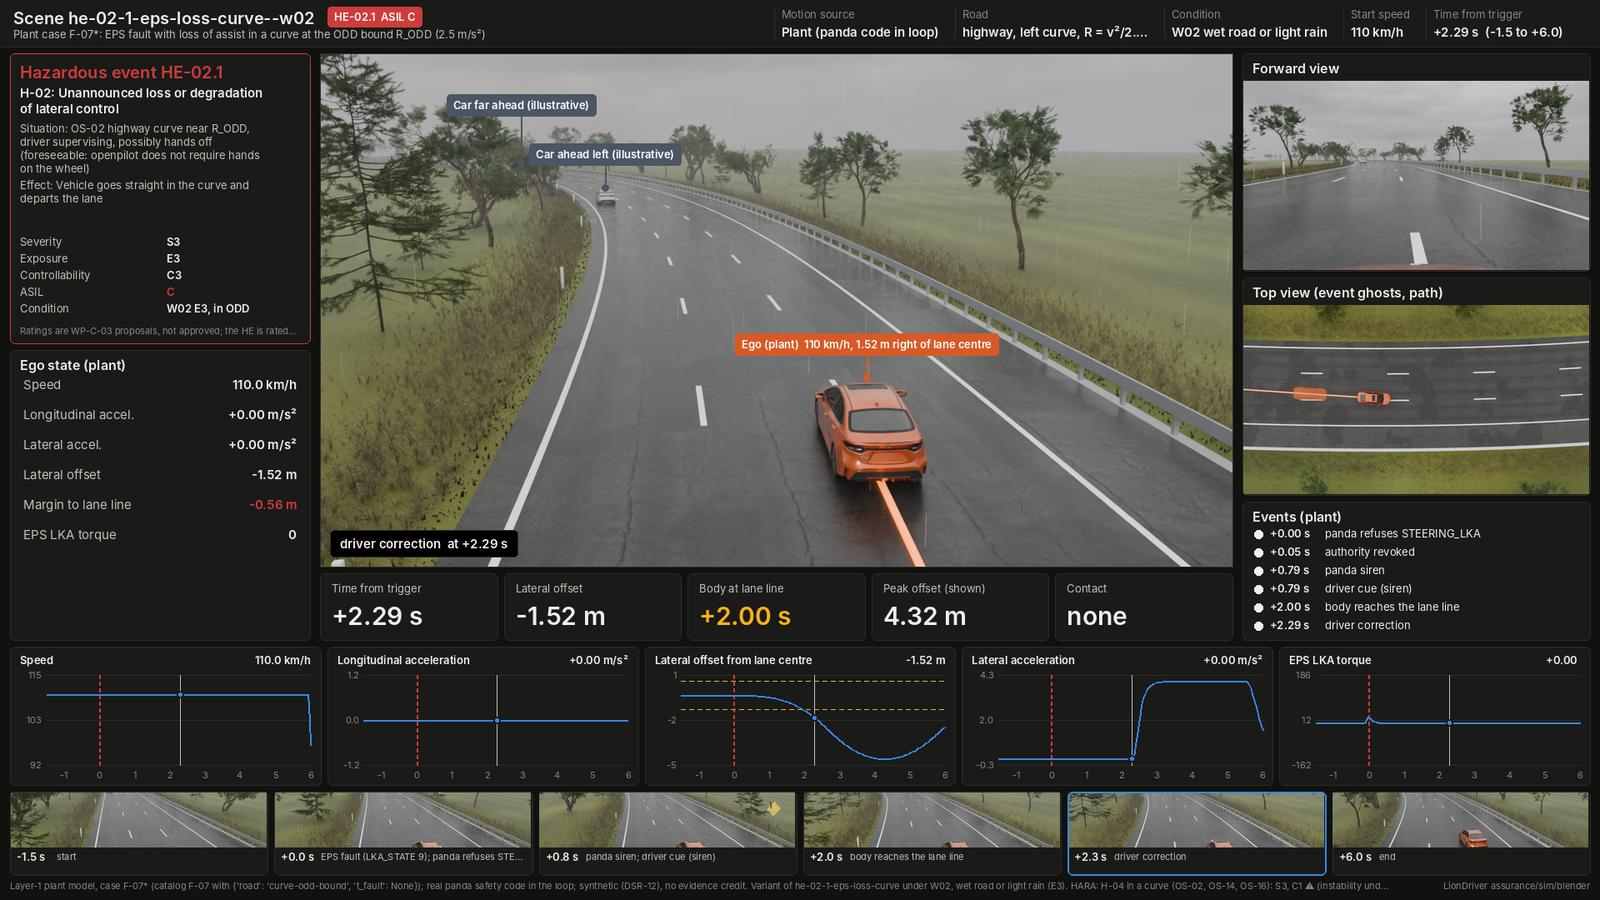
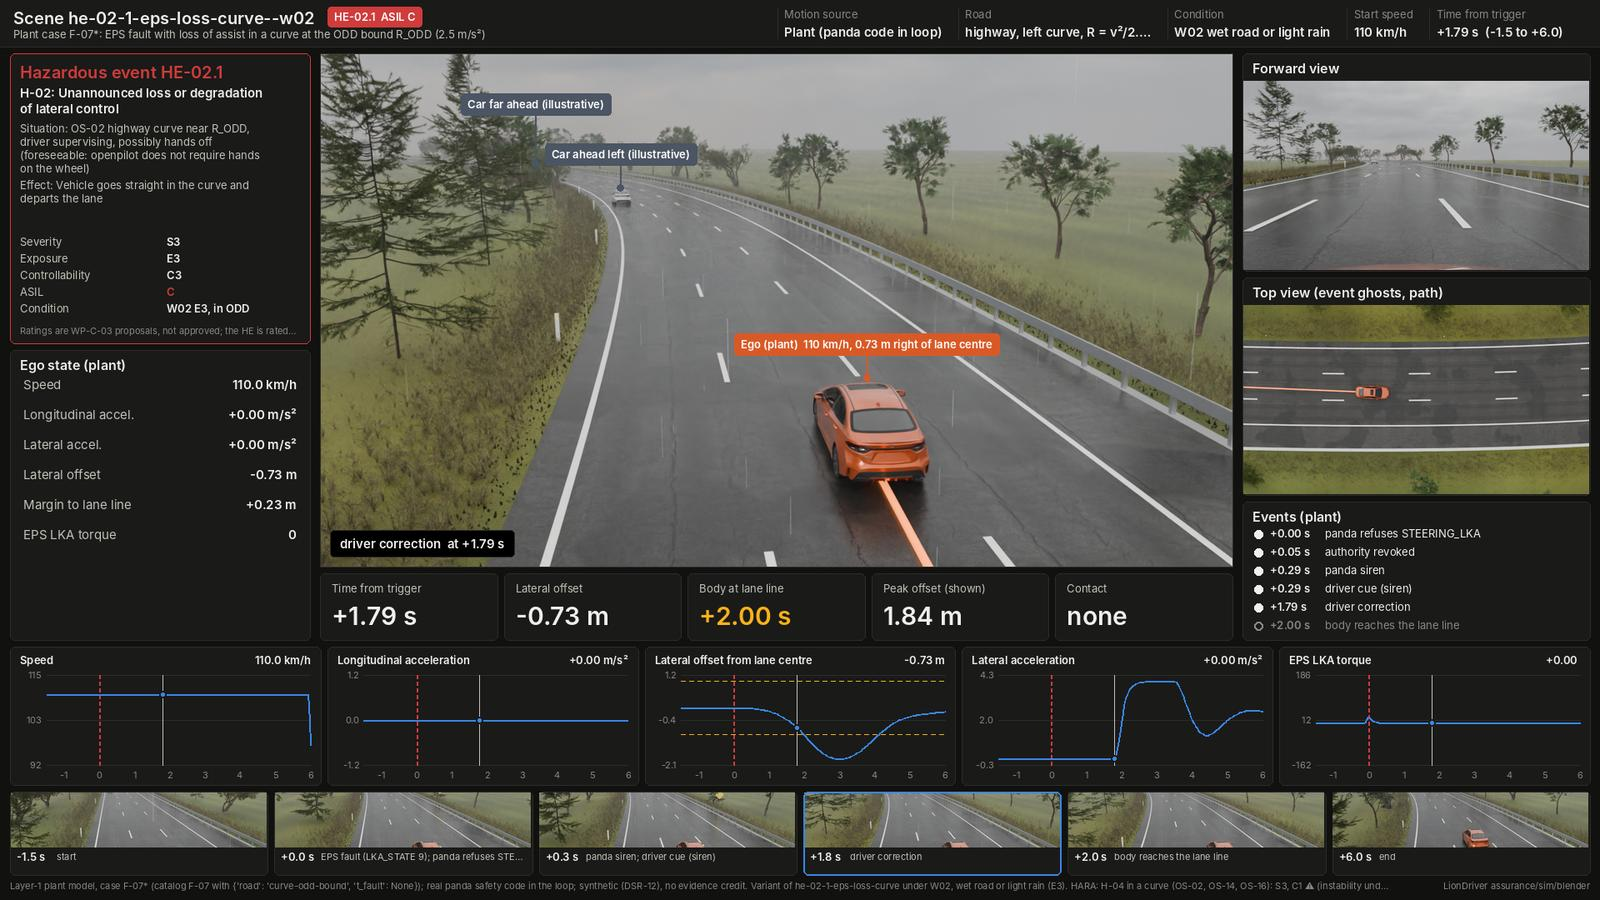
Re-render the HE-02.1, HE-07.1 and HE-07.2 dashboards for the siren on revocation (DQ-404)
The committed dashboards predated panda 8a69ccf and showed the larger,
silent drifts (HE-07.1 peak 7.28 m; now 2.05 m with the siren at 0.29 s).
Base scenes and their five weather variants, Corolla mesh. Synthetic
(DSR-12), no evidence credit.

Claude-Session: https://claude.ai/code/session_018Wp8iZZYAxRXNrYqwEwPHF

diff --git a/assurance/sim/blender/dashboards/README.md b/assurance/sim/blender/dashboards/README.md
@@ -13,7 +13,7 @@ Generated by [`../gallery.py`](../gallery.py) from the renders of [`../hazard_sc
 | [he-01-3-urban-hardover-cyclist](he-01-3-urban-hardover-cyclist.jpg) | HE-01.3 (ASIL B) | Vehicle drifts into a vulnerable road user | urban-arterial, W01 (E4) | plant F-01b* | **contact** with the cyclist at +0.67 s, 32 km/h |
 | [he-01-4-not-engaged-torque](he-01-4-not-engaged-torque.jpg) | HE-01.4 (ASIL C) | Unexpected steering disturbance during manual driving | highway-free-flow, W01 (E4) | plant F-02 | no contact; minimum gap 1.9 m |
 | [he-01-5-unsupervised-hardover](he-01-5-unsupervised-hardover.jpg) | HE-01.5 (ASIL B) | Lateral departure at highway speed that nobody corrects in time | highway-free-flow, W01 (E4) | plant F-01b* | **contact** with the barrier at +3.54 s, 110 km/h |
-| [he-02-1-eps-loss-curve](he-02-1-eps-loss-curve.jpg) | HE-02.1 (ASIL C) | Vehicle goes straight in the curve and departs the lane | highway-curve, W01 (E4) | plant F-07* | body at the lane line at +2.00 s; peak offset 4.32 m |
+| [he-02-1-eps-loss-curve](he-02-1-eps-loss-curve.jpg) | HE-02.1 (ASIL C) | Vehicle goes straight in the curve and departs the lane | highway-curve, W01 (E4) | plant F-07* | body at the lane line at +2.00 s; peak offset 1.84 m |
 | [he-02-2-rural-curve-oncoming](he-02-2-rural-curve-oncoming.jpg) | HE-02.2 (ASIL C) | Departure into the oncoming lane | rural-curve, W01 (E4) | plant F-07* | no contact; minimum gap 1.1 m, minimum TTC 0.85 s |
 | [he-02-3-frozen-command](he-02-3-frozen-command.jpg) | HE-02.3 (ASIL B) | Steering bias continues while the road changes | highway-free-flow, W01 (E4) | plant F-03 | body at the lane line at +2.46 s; peak offset 3.51 m |
 | [he-02-4-silent-loss-truck](he-02-4-silent-loss-truck.jpg) | HE-02.4 (ASIL B) | Slow drift out of the lane at highway speed | highway-free-flow, W01 (E4) | plant F-04b | **contact** with the truck at +1.79 s, 9 km/h |
@@ -39,8 +39,8 @@ Generated by [`../gallery.py`](../gallery.py) from the renders of [`../hazard_sc
 | [he-06-2-slow-queue](he-06-2-slow-queue.jpg) | HE-06.2 (ASIL QM) | Low-speed rear-end collision | highway-queue, W01 (E4) | kinematic | **contact** with the stopped lead at +1.46 s, 18 km/h |
 | [he-06-3-lead-brakes-decel-lost](he-06-3-lead-brakes-decel-lost.jpg) | HE-06.3 (ASIL B) | Rear-end collision at moderate speed difference | highway-free-flow, W01 (E4) | kinematic | no contact; minimum gap 8.2 m, minimum TTC 2.20 s |
 | [he-06-4-unsupervised-decel-lost](he-06-4-unsupervised-decel-lost.jpg) | HE-06.4 (ASIL B) | High-speed rear-end collision that nobody prevents | highway-queue, W01 (E4) | kinematic | **contact** with the end of queue at +4.00 s, 91 km/h |
-| [he-07-1-mode-confusion-curve](he-07-1-mode-confusion-curve.jpg) | HE-07.1 (ASIL C) | The driver believes the system steers; departure in the curve | highway-curve, W01 (E4) | plant F-04b* | body at the lane line at +2.00 s; peak offset 7.28 m |
-| [he-07-2-mode-confusion-gentle](he-07-2-mode-confusion-gentle.jpg) | HE-07.2 (ASIL B) | The driver believes the system steers; slow lane departure | highway-free-flow, W01 (E4) | plant F-04b* | body at the lane line at +2.38 s; peak offset 2.05 m |
+| [he-07-1-mode-confusion-curve](he-07-1-mode-confusion-curve.jpg) | HE-07.1 (ASIL C) | The driver believes the system steers; departure in the curve | highway-curve, W01 (E4) | plant F-04b* | body at the lane line at +2.00 s; peak offset 1.84 m |
+| [he-07-2-mode-confusion-gentle](he-07-2-mode-confusion-gentle.jpg) | HE-07.2 (ASIL B) | The driver believes the system steers; slow lane departure | highway-free-flow, W01 (E4) | plant F-04b* | stays in lane; peak offset 0.76 m |
 | [he-07-3-believes-acc-active](he-07-3-believes-acc-active.jpg) | HE-07.3 (ASIL C) | The driver expects the vehicle to slow; high closing speed | highway-queue, W01 (E4) | kinematic | no contact; minimum gap 36.1 m, minimum TTC 3.77 s |
 | [he-07-4-unsupervised-no-takeover](he-07-4-unsupervised-no-takeover.jpg) | HE-07.4 (ASIL B) | The driver, looking away, is not called back when the system drops out | highway-free-flow, W03 (E3) | plant F-07* | **contact** with the barrier at +3.54 s, 110 km/h |
 | [he-08-1-pcs-suppressed](he-08-1-pcs-suppressed.jpg) | HE-08.1 (ASIL B) | Collision not mitigated | highway-free-flow, W01 (E4) | kinematic | **contact** with the stopped car at +1.62 s, 38 km/h |
